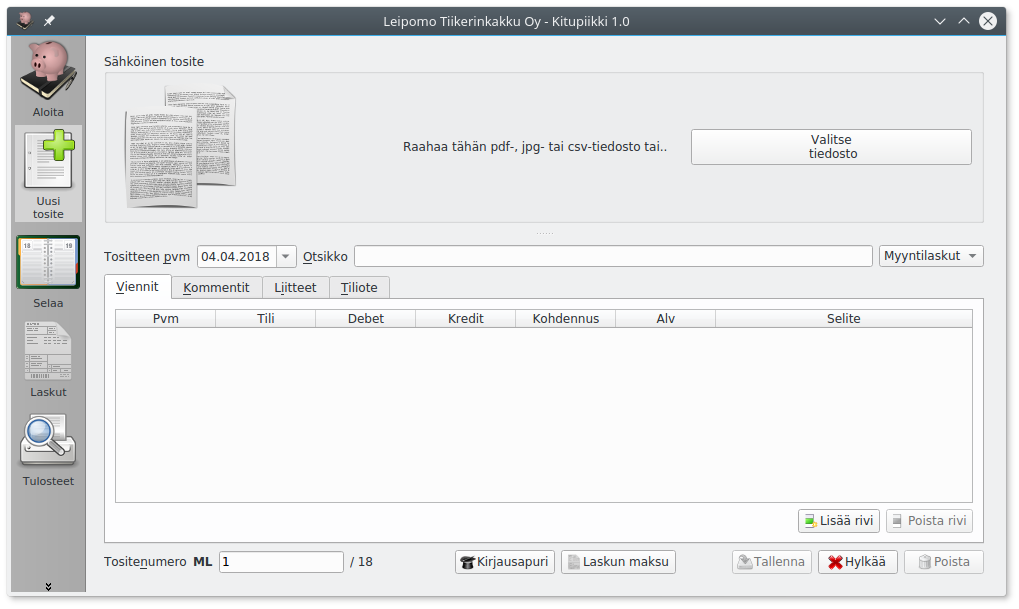
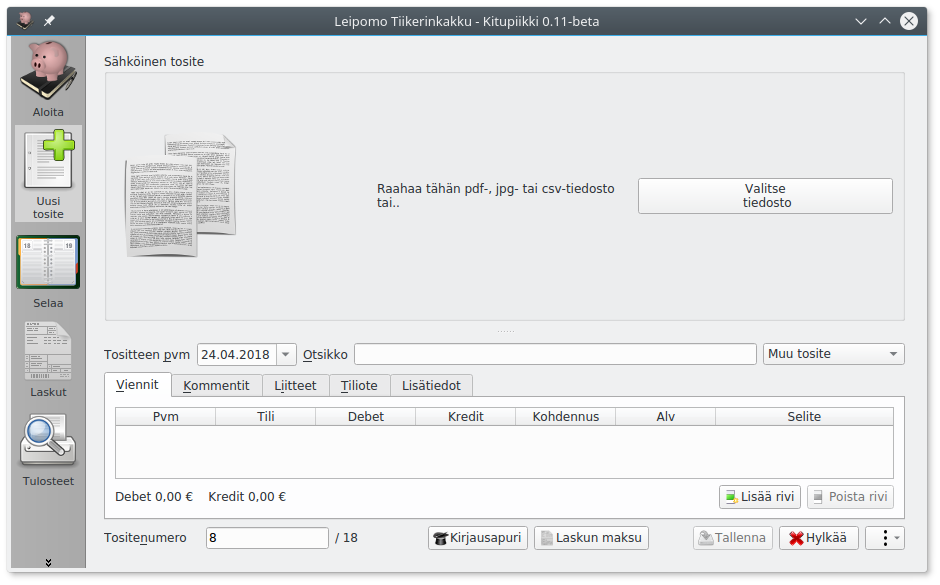
Docs

diff --git a/docs/kirjaus/index.md b/docs/kirjaus/index.md
@@ -48,3 +48,14 @@ Voit myös tehdä tositteen, jossa on liite ja mahdollisesti kommentteja ilman y
 Kitupiikki numeroi tositteet juoksevalla numerolla tositelajeittain ja tilikausittain. Jos haluat numeroida tositteita itse, syötä numero Tositenumero-ruutuun. Punainen numero tarkoittaa, että kyseinen tositenumero on jo käytössä. **Siirrä numeroita**-painikkeellä pääset siirtämään numerointia eteenpäin niin, että voit lisätä uuden tositteen olemassa olevien väliin.
 
 ![](numerosiirto.png)
+
+## Lisää toimintoja
+
+![](lisavalikko.png)
+
+Kirjausikkunan oikean alakulman valikosta löytyy
+
+* **Siirry tositteeseen** <kbd>Ctrl</kbd>+<kbd>G</kbd> Nopea tositteeseen siirtyminen tositenumeron perusteella
+* **Tulosta tosite** <kbd>Ctrl</kbd>+<kbd>P</kbd>
+* **Kopioi uuden pohjaksi** <kbd>Ctrl</kbd>+<kbd>T</kbd> Luo uuden tositteen, johon kopioidaan näkyvissä olevan tositteen tiedot, uudella päivämäärällä ja otsikolla
+* **Poista tosite**

diff --git a/docs/ui.md b/docs/ui.md
@@ -21,6 +21,7 @@ Kitupiikin käyttöliittymä muodostuu seitsemästä välilehdestä.
 
 Näppäin   |  Toiminto
 ----------|----------
+<kbd>Home</kbd> | Aloitus-välilehdelle
 <kbd>F1</kbd> | Näyttää internet-selaimessa ohjeen
 <kbd>F2</kdb> | Uuden tositteen kirjaus
 <kbd>Shift</kbd>+<kbd>F2</kdb> | Avaa uuden tositteen kirjauksen uudessa ikkunassa
